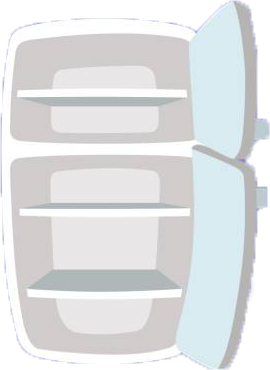
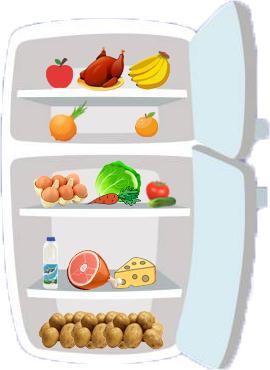
add homework 11

diff --git a/homework11/styles/style.scss b/homework11/styles/style.scss
@@ -24,7 +24,7 @@ body {
                 height: 100px;
                 position: absolute;    
                 height: 100px;    
-                top: 175px;    
+                top: 145px;    
                 left: 75px;
             }            
         }

diff --git a/homework11/styles/style.css b/homework11/styles/style.css
@@ -32,7 +32,7 @@ body main .fridge .kolbasa {
   height: 100px;
   position: absolute;
   height: 100px;
-  top: 175px;
+  top: 145px;
   left: 75px;
 }
 
